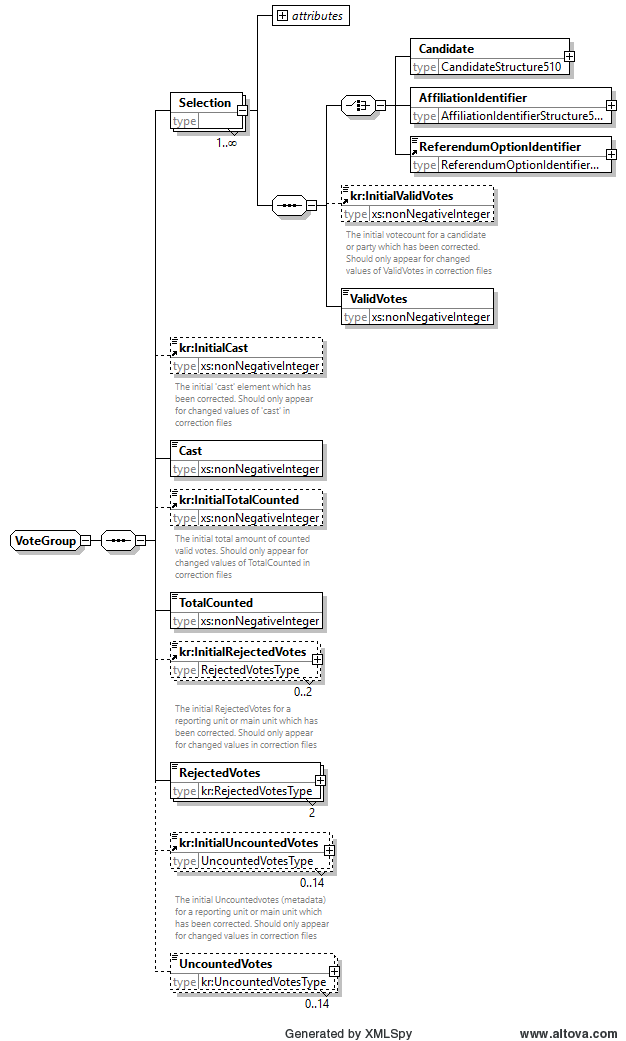
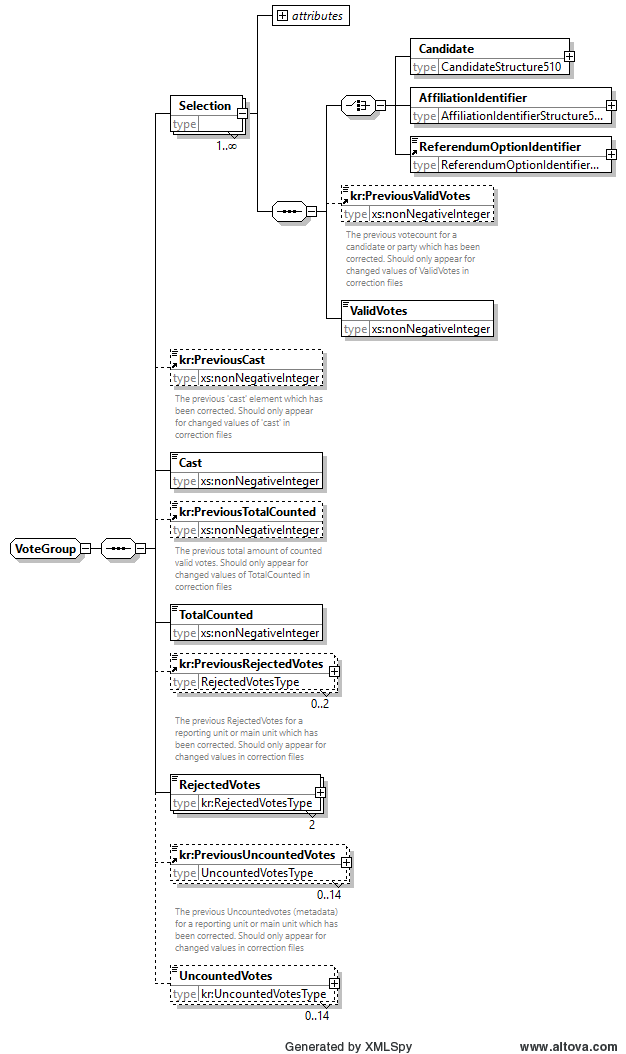
Naamgeving en documentatie `Intial...` aangepast naar `Previous...` (#35)
* Naamgeving en documentatie `Intial...` aangepast naar `Previous...`

* Bump version number in docs

diff --git a/docs/src/restricties_van_specifieke_berichten/510_count_kiesraad_strict.md b/docs/src/restricties_van_specifieke_berichten/510_count_kiesraad_strict.md
@@ -44,7 +44,7 @@ Het element `ReportingUnitVotes` is uitgebreid ten opzichte van het originele EM
 
 Het type van child element `ReportingUnitIdentifier` is beperkt tot `ReportingUnitIdentifierStructure510`. De descendant `VoteGroup` was beperkt tot alleen de onbeperkte opvolging van het child element `Selection`, het child element `Cast`, het child element `TotalCounted`, en een opeenvolging van twee van de child elementen `RejectedVotes`, allen verplicht. Daarnaast zijn 0 tot 14 optionele elementen `UncountedVotes` toegevoegd. De child elementen van `Selection` kan één van de `Candidate`, `AffiliationIdentifier`, of `ReferendumOptionIdentifier` zijn, alsmede het element `ValidVotes`. Het type van het element `Candidate` is beperkt tot `CandidateStructure510`. Het type van het element `AffiliationIdentifier` is beperkt tot `AffiliationIdentifierStructure510`. Het element `RejectedVotes` kan alleen de waarden `blanco` en `ongeldig` hebben voor het attribuut `ReasonCode`.
 
-Daarnaast is voor alle elementen welke een aantal beschrijven onder de `kr` namespace een element toegevoegd met prefix `Initial`. Deze elementen komen altijd voor de aantallen die voor het huidige EML bericht gelden en geven de initiële waarde van deze aantallen aan voordat er een corrigendum en dus een nieuw EML bericht is opgemaakt. Deze elementen mogen alleen voorkomen indien `kr:Phase` onder `Count` attribuut `Phasecode="corrigendum"` heeft en het initiële aantal anders was dan het aantal na het corrigendum.
+Daarnaast is voor alle elementen welke een aantal beschrijven onder de `kr` namespace een element toegevoegd met prefix `Previous`. Deze elementen komen altijd voor de aantallen die voor het huidige EML bericht gelden en geven de vorige waarde van deze aantallen aan voordat er een corrigendum en dus een nieuw EML bericht is opgemaakt. Deze elementen mogen alleen voorkomen indien `kr:Phase` onder `Count` attribuut `Phasecode="corrigendum"` heeft en het vorige aantal anders was dan het aantal na het corrigendum (en dit aantal dus is gecorrigeerd).
 
 ![](../media/image70.png)
 
@@ -57,7 +57,7 @@ Een voorbeeld van de EML\_NL 510b voor de Tweede Kamerverkiezing is hieronder we
     <AuthorityIdentifier Id="0312">Bunnik</AuthorityIdentifier>
     <AuthorityAddress/>
   </ManagingAuthority>
-  <kr:Schema Version="1.3"/>
+  <kr:Schema Version="1.3.1"/>
   <kr:CreationDateTime>2023-11-23T18:19:30.837</kr:CreationDateTime>
   <ds:CanonicalizationMethod Algorithm="http://www.w3.org/TR/2001/REC-xml-c14n-20010315#WithComments"/>
   <Count>
@@ -81,7 +81,7 @@ Een voorbeeld van de EML\_NL 510b voor de Tweede Kamerverkiezing is hieronder we
               <AffiliationIdentifier Id="1">
                 <RegisteredName>De Partij</RegisteredName>
               </AffiliationIdentifier>
-              <kr:InitialValidVotes>1887</kr:InitialValidVotes>
+              <kr:PreviousValidVotes>1887</kr:PreviousValidVotes>
               <ValidVotes>1886</ValidVotes>
             </Selection>
             <Selection>
@@ -92,12 +92,12 @@ Een voorbeeld van de EML\_NL 510b voor de Tweede Kamerverkiezing is hieronder we
             </Selection>
             ...
             <Cast>12124</Cast>
-            <kr:InitialTotalCounted>10704</kr:InitialTotalCounted>
+            <kr:PreviousTotalCounted>10704</kr:PreviousTotalCounted>
             <TotalCounted>10702</TotalCounted>
-            <kr:InitialRejectedVotes ReasonCode="ongeldig">20</kr:InitialRejectedVotes>
+            <kr:PreviousRejectedVotes ReasonCode="ongeldig">20</kr:PreviousRejectedVotes>
             <RejectedVotes ReasonCode="ongeldig">19</RejectedVotes>
             <RejectedVotes ReasonCode="blanco">20</RejectedVotes>
-            <kr:InitialUncountedVotes ReasonCode="andere verklaring">1</kr:InitialUncountedVotes>
+            <kr:PreviousUncountedVotes ReasonCode="andere verklaring">1</kr:PreviousUncountedVotes>
             <UncountedVotes ReasonCode="geldige stempassen">9799</UncountedVotes>
             <UncountedVotes ReasonCode="geldige volmachtbewijzen">922</UncountedVotes>
             <UncountedVotes ReasonCode="geldige kiezerspassen">24</UncountedVotes>
@@ -157,7 +157,7 @@ Aangezien de 510d een aggregatie tot een niveau *boven* de kieskringen kan zijn,
     <AuthorityIdentifier Id="CSB">De Kiesraad</AuthorityIdentifier>
     <AuthorityAddress/>
   </ManagingAuthority>
-  <kr:Schema Version="1.3"/>
+  <kr:Schema Version="1.3.1"/>
   <kr:CreationDateTime>2023-12-03T14:20:55.204</kr:CreationDateTime>
   <ds:CanonicalizationMethod Algorithm="http://www.w3.org/TR/2001/REC-xml-c14n-20010315#WithComments"/>
   <Count>

diff --git a/docs/src/toevoegingen_tov_eml_5.md b/docs/src/toevoegingen_tov_eml_5.md
@@ -54,7 +54,7 @@ Complex type `UncountedVotesType` wordt gebruikt als restrictie op het element u
 
 Complex type `RejectedVotesType` wordt gebruikt als restirctie op het element `RejectedVotes` uit EML 5.0. Het element `RejectedVotes` met dit type wordt gebruikt in EML 510a, 510b, 510c en 510d om bij te houden hoeveel blanco en ongeldige stemmen er op dat niveau uitgebracht zijn. Het attribuut `ReasonCode` is hiervoor beperkt tot geldige waarden `blanco` en `ongeldig`.
 
-De elementen `InitialValidVotes`, `InitialCast`, `InitialTotalCounted`, `InitialRejectedVotes` en `InitialUncountedVotes` zijn elementen die optioneel in een 510a, 510b of 510c voor kunnen komen in het geval dat element `Phase Phasecode="corrigendum"` heeft. De bedoeling van deze elementen is om het initiële aantal (dus het aantal zoals vastgesteld in de eerste zitting) vast te leggen zodat deze vergeleken kan worden met het gecorrigeerde aantal (hetzelfde element maar dan zonder prefix ‘Initial’). Dit element komt alleen voor <u>indien het aantal in het corrigendum aangepast is</u>. Als de waarde in het corrigendum niet aangepast is, komt het element dus ook niet voor.
+De elementen `PreviousValidVotes`, `PreviousCast`, `PreviousTotalCounted`, `PreviousRejectedVotes` en `PreviousUncountedVotes` zijn elementen die optioneel in een 510a, 510b of 510c voor kunnen komen in het geval dat element `Phase Phasecode="corrigendum"` heeft. De bedoeling van deze elementen is om het vorige aantal (indien er één corrigendum is, is dit het aantal van de eerste zitting. Indien dit corrigendum nummer `i` is, dan betreft dit de aantallen van corrigendum `i-1`) vast te leggen zodat deze vergeleken kan worden met het gecorrigeerde aantal (hetzelfde element maar dan zonder prefix ‘Previous’). Dit element komt alleen voor <u>indien het aantal in het corrigendum aangepast is</u>. Als de waarde in het corrigendum niet aangepast is, komt het element dus ook niet voor.
 
 Tevens zijn de elementen `NumberOfSeats`, `PreferenceThreshold`, `RegisteredParties`, `ElectionTree`, `Region`, `RegionName`, en `Committee` gedefinieerd en de simple types `RegionCategoryType` en `CommitteeCategoryType`.
 

diff --git a/docs/src/restricties_van_specifieke_berichten/520_result_kiesraad_strict.md b/docs/src/restricties_van_specifieke_berichten/520_result_kiesraad_strict.md
@@ -45,7 +45,7 @@ Een voorbeeld van de EML_NL 520 voor een Tweede Kamerverkiezing is hieronder afg
     <AuthorityIdentifier Id="CSB">De Kiesraad</AuthorityIdentifier>
     <AuthorityAddress/>
   </ManagingAuthority>
-  <kr:Schema Version="1.3"/>
+  <kr:Schema Version="1.3.1"/>
   <kr:CreationDateTime>2023-12-03T14:22:26.741</kr:CreationDateTime>
   <ds:CanonicalizationMethod Algorithm="http://www.w3.org/TR/2001/REC-xml-c14n-20010315#WithComments"/>
   <Result>

diff --git a/docs/src/restricties_van_specifieke_berichten/110b_electionevent_kiesraad_strict.md b/docs/src/restricties_van_specifieke_berichten/110b_electionevent_kiesraad_strict.md
@@ -41,7 +41,7 @@ Hieronder staat een voorbeeld van een EML 110b met een mobiel stembureau dat op 
     <AuthorityIdentifier Id="0999">Juinen</AuthorityIdentifier>
     <AuthorityAddress/>
   </ManagingAuthority>
-  <kr:Schema Version="1.3"/>
+  <kr:Schema Version="1.3.1"/>
   <kr:CreationDateTime>2024-05-27T17:05:57</kr:CreationDateTime>
   <ds:CanonicalizationMethod Algorithm="http://www.w3.org/TR/2001/REC-xml-c14n-20010315#WithComments"/>
   <ElectionEvent>

diff --git a/docs/src/restricties_van_specifieke_berichten/230_candidatelist_kiesraad_strict.md b/docs/src/restricties_van_specifieke_berichten/230_candidatelist_kiesraad_strict.md
@@ -33,7 +33,7 @@ Een voorbeeld van EML_NL 230b voor de Tweede Kamerverkiezingen voor een specifie
     <AuthorityAddress/>
   </ManagingAuthority>
   <IssueDate>2025-01-20</IssueDate>
-  <kr:Schema Version="1.3"/>
+  <kr:Schema Version="1.3.1"/>
   <kr:CreationDateTime>2025-01-20T10:35:51.604</kr:CreationDateTime>
   <ds:CanonicalizationMethod Algorithm="http://www.w3.org/TR/2001/REC-xml-c14n-20010315#WithComments"/>
   <CandidateList>

diff --git a/docs/src/restricties_van_specifieke_berichten/630_optionslist_kiesraad_strict.md b/docs/src/restricties_van_specifieke_berichten/630_optionslist_kiesraad_strict.md
@@ -33,7 +33,7 @@ Een voorbeeld van de EML\_NL 630 is hieronder weergegeven. De `Ids` die hier als
 ```xml
 <EML SchemaVersion="5" Id="630" xmlns="urn:oasis:names:tc:evs:schema:eml" xmlns:kr="http://www.kiesraad.nl/extensions">
   <TransactionId>1</TransactionId>
-  <kr:Schema Version="1.3"/>
+  <kr:Schema Version="1.3.1"/>
   <kr:CreationDateTime>2018-01-15T12:35:10.328</kr:CreationDateTime>
   <OptionsList>
     <Election>

diff --git a/docs/src/restricties_van_specifieke_berichten/110a_electionevent_kiesraad_strict.md b/docs/src/restricties_van_specifieke_berichten/110a_electionevent_kiesraad_strict.md
@@ -34,7 +34,7 @@ Een voorbeeld van een EML 110a voor de Europees Parlementsverkiezing wordt hiero
   xmlns:kr="http://www.kiesraad.nl/extensions" Id="110a" SchemaVersion="5">
   <TransactionId>1</TransactionId>
   <IssueDate>2024-04-29</IssueDate>
-  <kr:Schema Version="1.3"/>
+  <kr:Schema Version="1.3.1"/>
   <kr:CreationDateTime>2024-04-29T18:13:50.148</kr:CreationDateTime>
   <ElectionEvent>
     <EventIdentifier/>
